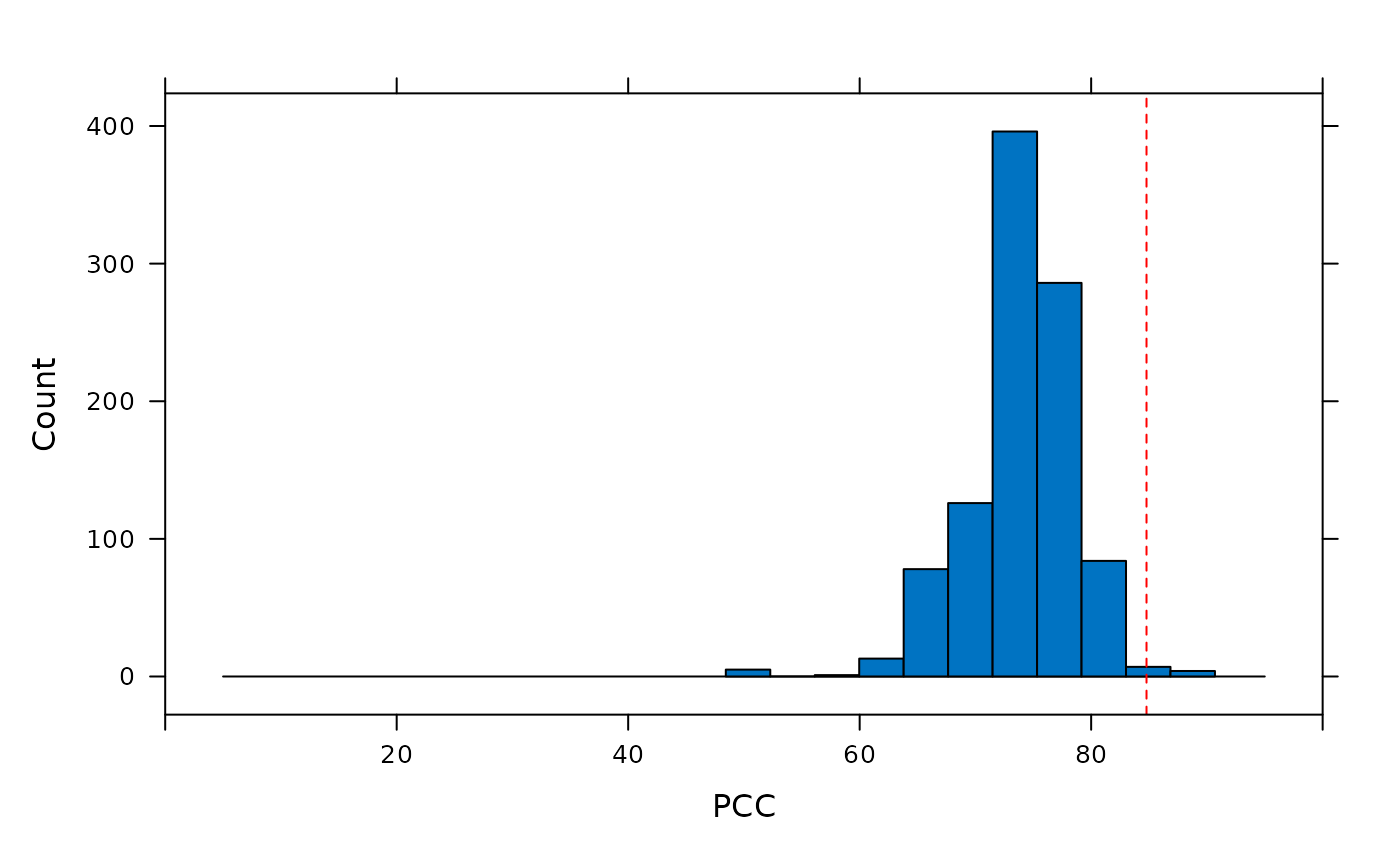
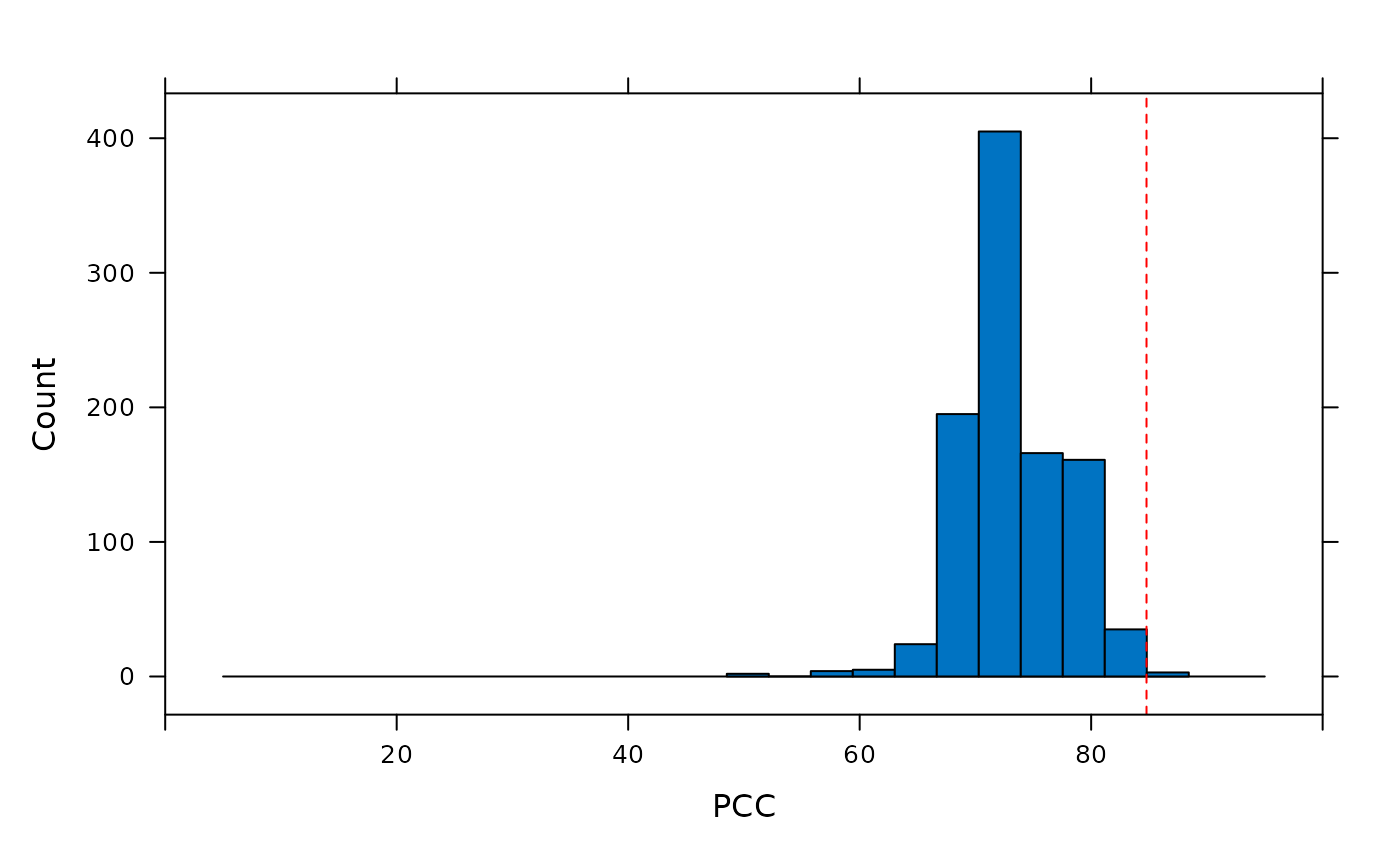
Deploying to gh-pages from @ timbeechey/clubpro@9f6eded84d4d99f49b4a30da33d59d10f7e1967d 🚀

diff --git a/articles/clubpro.html b/articles/clubpro.html
@@ -100,30 +100,33 @@
 <span><span class="co">#&gt; ----- Randomisation Test Results -----</span></span>
 <span><span class="co">#&gt; Random reorderings:  1000 </span></span>
 <span><span class="co">#&gt; Minimum random PCC:  50 </span></span>
-<span><span class="co">#&gt; Maximum random PCC:  89.13 </span></span>
+<span><span class="co">#&gt; Maximum random PCC:  86.96 </span></span>
 <span><span class="co">#&gt; Chance-value:  0.01</span></span></code></pre></div>
 <div class="sourceCode" id="cb5"><pre class="downlit sourceCode r">
 <code class="sourceCode R"><span><span class="fu"><a href="https://rdrr.io/r/graphics/plot.default.html" class="external-link">plot</a></span><span class="op">(</span><span class="va">mod</span><span class="op">)</span></span></code></pre></div>
 <p><img src="clubpro_files/figure-html/plot_jellyfish-1.png" width="700"></p>
 <div class="sourceCode" id="cb6"><pre class="downlit sourceCode r">
+<code class="sourceCode R"><span><span class="fu"><a href="https://rdrr.io/r/graphics/plot.default.html" class="external-link">plot</a></span><span class="op">(</span><span class="fu"><a href="../reference/csi.html">csi</a></span><span class="op">(</span><span class="va">mod</span><span class="op">)</span><span class="op">)</span></span></code></pre></div>
+<p><img src="clubpro_files/figure-html/plot_csi-1.png" width="700"></p>
+<div class="sourceCode" id="cb7"><pre class="downlit sourceCode r">
 <code class="sourceCode R"><span><span class="fu"><a href="https://rdrr.io/r/stats/predict.html" class="external-link">predict</a></span><span class="op">(</span><span class="va">mod</span><span class="op">)</span></span>
 <span><span class="co">#&gt;                 </span></span>
 <span><span class="co">#&gt;                  Dangar Island Salamander Bay</span></span>
 <span><span class="co">#&gt;   Dangar Island             17              5</span></span>
 <span><span class="co">#&gt;   Salamander Bay             2             22</span></span></code></pre></div>
-<div class="sourceCode" id="cb7"><pre class="downlit sourceCode r">
+<div class="sourceCode" id="cb8"><pre class="downlit sourceCode r">
 <code class="sourceCode R"><span><span class="fu"><a href="../reference/accuracy.html">accuracy</a></span><span class="op">(</span><span class="va">mod</span><span class="op">)</span></span>
 <span><span class="co">#&gt;                 </span></span>
 <span><span class="co">#&gt;                  correct incorrect ambiguous</span></span>
 <span><span class="co">#&gt;   Dangar Island       17         5         0</span></span>
 <span><span class="co">#&gt;   Salamander Bay      22         2         0</span></span></code></pre></div>
-<div class="sourceCode" id="cb8"><pre class="downlit sourceCode r">
+<div class="sourceCode" id="cb9"><pre class="downlit sourceCode r">
 <code class="sourceCode R"><span><span class="fu"><a href="../reference/pcc.html">pcc</a></span><span class="op">(</span><span class="va">mod</span><span class="op">)</span></span>
 <span><span class="co">#&gt; [1] 84.78261</span></span></code></pre></div>
-<div class="sourceCode" id="cb9"><pre class="downlit sourceCode r">
-<code class="sourceCode R"><span><span class="fu"><a href="../reference/cval.html">cval</a></span><span class="op">(</span><span class="va">mod</span><span class="op">)</span></span>
-<span><span class="co">#&gt; [1] 0.011</span></span></code></pre></div>
 <div class="sourceCode" id="cb10"><pre class="downlit sourceCode r">
+<code class="sourceCode R"><span><span class="fu"><a href="../reference/cval.html">cval</a></span><span class="op">(</span><span class="va">mod</span><span class="op">)</span></span>
+<span><span class="co">#&gt; [1] 0.015</span></span></code></pre></div>
+<div class="sourceCode" id="cb11"><pre class="downlit sourceCode r">
 <code class="sourceCode R"><span><span class="fu"><a href="https://rdrr.io/r/graphics/plot.default.html" class="external-link">plot</a></span><span class="op">(</span><span class="fu"><a href="../reference/pcc_replicates.html">pcc_replicates</a></span><span class="op">(</span><span class="va">mod</span><span class="op">)</span><span class="op">)</span></span></code></pre></div>
 <p><img src="clubpro_files/figure-html/plot_cval_dist-1.png" width="700"></p>
   </main>

diff --git a/index.html b/index.html
@@ -124,7 +124,7 @@
 <span><span class="co">#&gt; </span></span>
 <span><span class="co">#&gt; ----- Randomisation Test Results -----</span></span>
 <span><span class="co">#&gt; Random reorderings:  1000 </span></span>
-<span><span class="co">#&gt; Minimum random PCC:  30 </span></span>
+<span><span class="co">#&gt; Minimum random PCC:  26.67 </span></span>
 <span><span class="co">#&gt; Maximum random PCC:  83.33 </span></span>
 <span><span class="co">#&gt; Chance-value:  0.9</span></span></code></pre></div>
 <p>Plot the classification results.</p>
